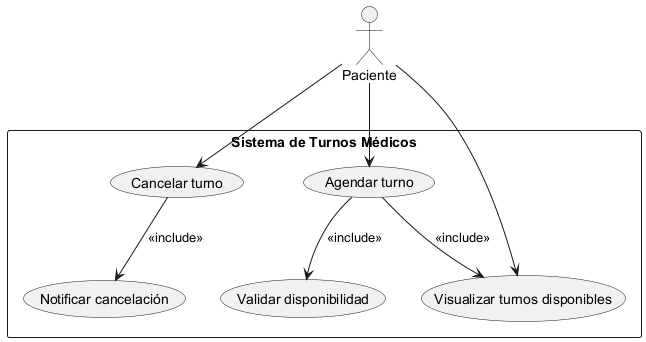
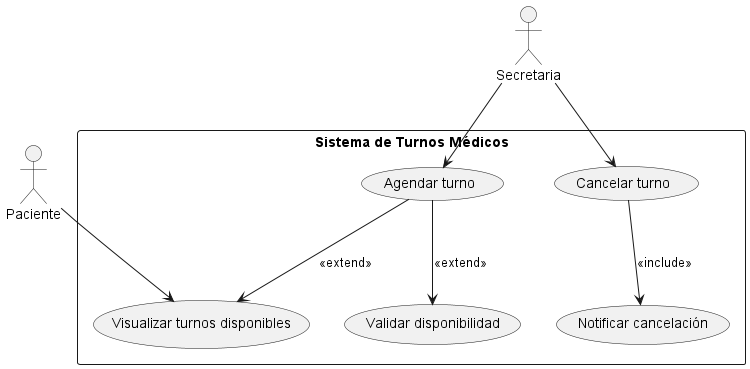
Merge pull request #50 from sofinestt/fix/correcciones-fix
Correcciones 2

Pull request: Correcciones 2

diff --git a/changelog.md b/changelog.md
@@ -8,30 +8,25 @@ Este archivo se actualiza con cada Pull Request para registrar avances y correcc
 
 ### Added
 
-- [feature/espec-escenarios-casos-uso-add-escenario-1] Se agregan escenarios de casos de uso, índice y prompt de iaExpand commentComment on line R30Resolved
-  PR: [#32](https://github.com/sofinestt/SistemaTurnosMedicos/pull/32) - @ANeicuan (Especialista de Casos de Uso)
+- [feature/espec-escenarios-casos-uso-add-escenario-1] Se agregan escenarios de casos de uso, índice y prompt de ia. PR: [#32](https://github.com/sofinestt/SistemaTurnosMedicos/pull/32) - @ANeicuan (Especialista de Casos de Uso)
 
-- [feature/modelador-diag-casos-uso]- Se agregan diagramas de casos de uso en formato .puml y .png, Índices UML y entrada al changelog.
-PR: [#21](https://github.com/sofinestt/SistemaTurnosMedicos/pull/21) - @sofinestt (Modelador de casos de uso)
+- [feature/modelador-diag-casos-uso]- Se agregan diagramas de casos de uso en formato .puml y .png, Índices UML y entrada al changelog. PR: [#21](https://github.com/sofinestt/SistemaTurnosMedicos/pull/21) - @sofinestt (Modelador de casos de uso)
 
-[feature/diseniador-tarjetas-crc-add-tarjeta-clase-1]- Se agregan tarjetas CRC y documentación de uso de IA. 
-PR: [#34](https://github.com/sofinestt/SistemaTurnosMedicos/pull/34) - @ademarco97 (Diseñador de tarjetas CRC)
-
-
-### Changed
-
+- [feature/diseniador-tarjetas-crc-add-tarjeta-clase-1]- Se agregan tarjetas CRC y documentación de uso de IA. PR: [#34](https://github.com/sofinestt/SistemaTurnosMedicos/pull/34) - @ademarco97 (Diseñador de tarjetas CRC)
 
 ### Fixed
 
-[fix/correcciones-actividad-obligatoria-2.0] Se crea nueva PR con correcciones 
-PR: [#42](https://github.com/sofinestt/SistemaTurnosMedicos/pull/42)
-@sofinestt (Modeladora de casos de uso)
+- [fix/correcciones-actividad-obligatoria-2.0] Correcciones A2: LlegadaPaciente CRC, Turno, ia/a2. PR: [#42](https://github.com/sofinestt/SistemaTurnosMedicos/pull/42) - @sofinestt (Modeladora de Diagramas de CU)
 
-[fix/correciones-actividad-obligatoria-2.0] Se crea la tarjeta CRC "Llegada Paciente" y se corrige la tarjeta Turno. Se realizan correcciones en ia/a2 y las entradas en el archivo changelog. PR:[#42](https://github.com/sofinestt/SistemaTurnosMedicos/pull/42) @sofinestt (Modeladora de casos de uso)
+- [fix/diag-casos-de-uso-fix-2] Se corrigen archivos de diagramas de CUs, nombres en indice diagramas_de_casos_de_uso.md y contenido de diagramasUML.md. PR [#43](https://github.com/sofinestt/SistemaTurnosMedicos/pull/43) - @sofinestt (Modeladora de casos de uso)
 
-[fix/diag-casos-de-uso-fix-2] Se corrigen archivos de diagramas de CUs, nombres en indice diagramas_de_casos_de_uso.md y contenido de diagramasUML.md. PR [#43](https://github.com/sofinestt/SistemaTurnosMedicos/pull/43) @sofinestt (Modeladora de casos de uso)
+- [fix/correcciones-act-2-fix] Se corrigieron Indices, Indices en tarjetas CRC y archivo README. PR[#46](https://github.com/sofinestt/SistemaTurnosMedicos/pull/46) - @sofinestt(Diseñadora y cordinadora del Repositorio)
 
-[fix/correcciones-act-2-fix] Se corrigieron Indices, Indices en tarjetas CRC y archivo README. PR[#46](https://github.com/sofinestt/SistemaTurnosMedicos/pull/46) @sofinestt (Diseñadora y cordinadora del Repositorio)
+- [fix/correcciones-finales-fix] Se agrego archivo documentador-coordinador.md. Se hacen correciones a changelog.md. PR[#49](https://github.com/sofinestt/SistemaTurnosMedicos/pull/49) - @sofinestt (Diseñadora y cordinadora del Repositorio)
+
+- [fix/correcciones-fix] Se modifica changelog y se hacen correcciones en diagramas de CUs. PR[#50](https://github.com/sofinestt/SistemaTurnosMedicos/pull/50) - @sofinestt (Diseñadora y cordinadora del Repositorio)
+
+
 
 ## [Release Actividad Obligatoria N°1] - 2026-04-14
 

diff --git a/herramientas-agile/tarjetas-crc/05-tarjeta-crc-turno.md b/herramientas-agile/tarjetas-crc/05-tarjeta-crc-turno.md
@@ -4,4 +4,4 @@
 | Superclase: |  | | |
 | Subclase: |  | | |
 | Responsabilidades | Colaboradores | Pensamiento del objeto | Propiedad |
-| Controlar la reserva de tiempo, estado, duración, sobreturno y llegada. | Paciente, Medico, Agenda, Disponibilidad, Notificacion | Yo soy el turno que refleja el estado real de la reserva médica. | fecha, hora, estado, tipoConsulta, duracionPrevista, duracionReal, esSobreturno |
+| Controlar la reserva de tiempo, estado, duración y sobreturno | Paciente, Medico, Agenda, Disponibilidad, Notificacion | Yo soy el turno que refleja el estado real de la reserva médica. | fecha, hora, estado, tipoConsulta, duracionPrevista, duracionReal, esSobreturno |